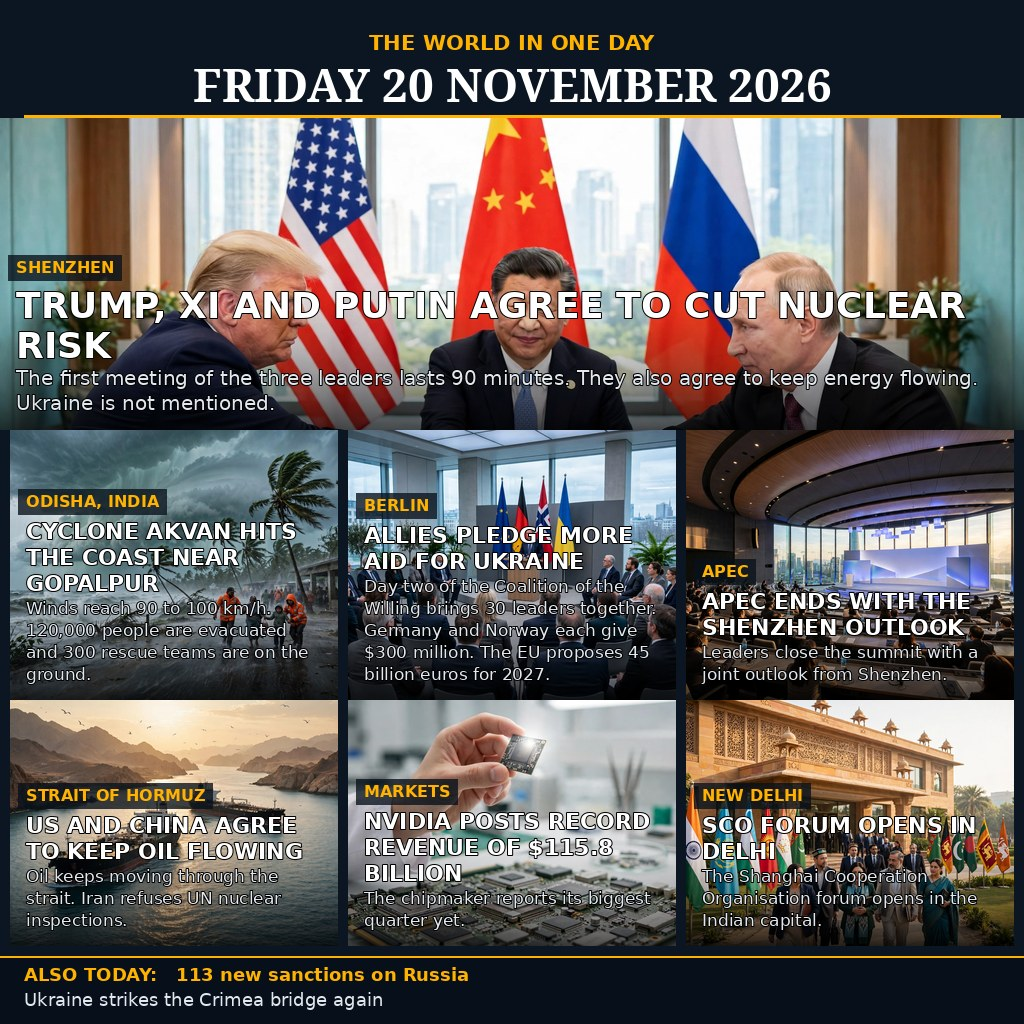
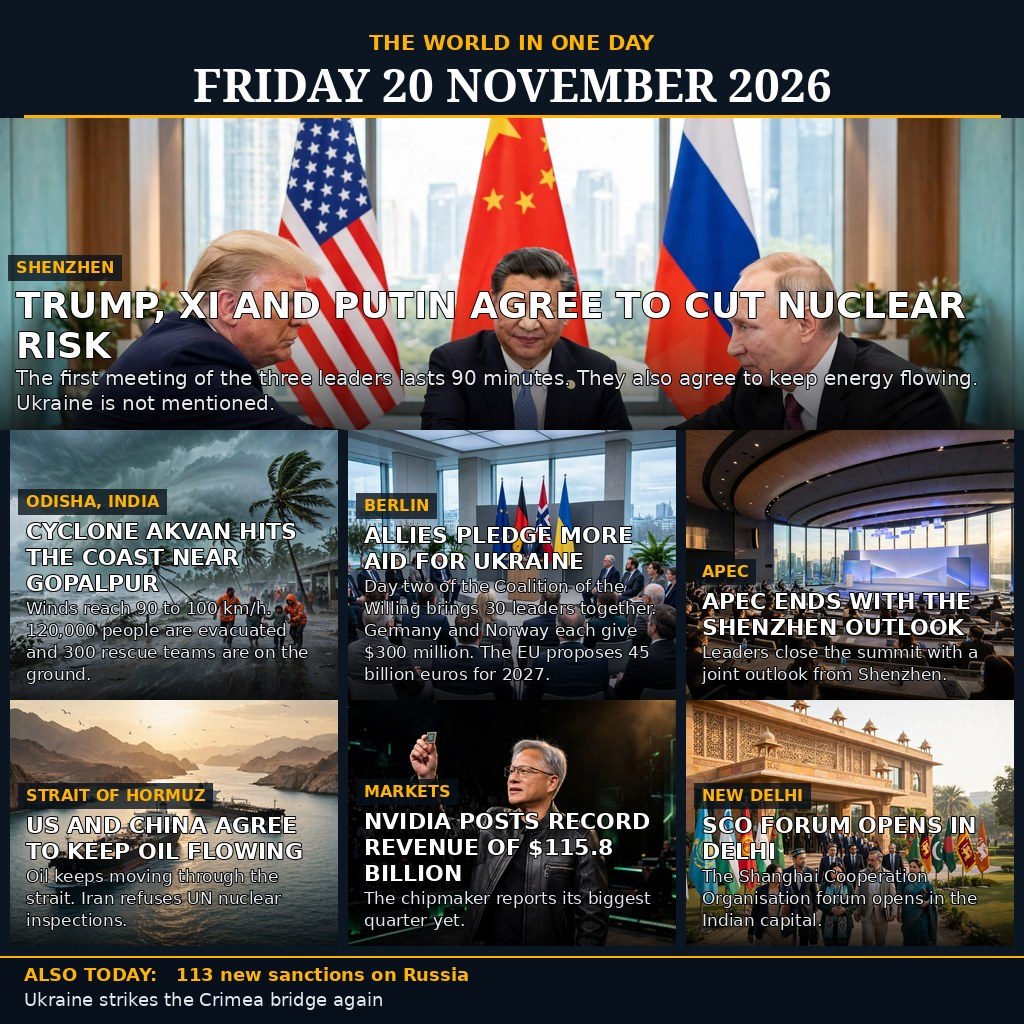
news-image-20261120: fix DELHI headline crop, Nvidia panel now Jensen Huang

Changed region(s): [[0.3125, 0.6562, 1.0, 0.9375]]

diff --git a/compose.py b/compose.py
@@ -16,8 +16,9 @@ All text is drawn with PIL (crisp vector type) over a moderate bottom
 scrim, so nothing is garbled the way AI-generated text would be. Each
 panel keeps its own natural colours and light: the hero is warm daylight,
 the cyclone is blue-grey with orange rescue jackets, Berlin is cool
-grey-blue, APEC is warm sunset, Hormuz is golden hour, Nvidia is a clean
-green and silver lab, Delhi is warm sandstone morning. No panel sits under
+grey-blue, APEC is warm sunset, Hormuz is golden hour, Nvidia is
+Jensen Huang on a dark keynote stage with green accents, Delhi is
+warm sandstone morning. No panel sits under
 a heavy dark wash. No randomness anywhere: same inputs give the same
 bytes every run.
 """
@@ -41,15 +42,17 @@ def font(path, size):
     return ImageFont.truetype(path, size)
 
 
-def cover_crop(im, tw, th, focus_y=0.5):
+def cover_crop(im, tw, th, focus_y=0.5, focus_x=0.5):
     """Resize + crop so the image exactly fills tw x th.
 
     focus_y (0..1) places the crop window vertically: 0.5 = centred.
+    focus_x (0..1) places it horizontally: 0.5 = centred, 1.0 = right.
     """
     sw, sh = im.size
     scale = max(tw / sw, th / sh)
     im = im.resize((round(sw * scale), round(sh * scale)), Image.LANCZOS)
-    x = (im.width - tw) // 2
+    slack_x = im.width - tw
+    x = round(slack_x * focus_x) if slack_x > 0 else 0
     slack = im.height - th
     y = round(slack * focus_y) if slack > 0 else 0
     return im.crop((x, y, x + tw, y + th))
@@ -87,11 +90,12 @@ def wrap(draw, text, fnt, max_w):
 
 
 def panel(base, img_path, box, tag, headline, sub, head_size=22,
-          sub_size=17, focus_y=0.5, max_head_lines=3, scrim_alpha=180):
+          sub_size=17, focus_y=0.5, focus_x=0.5, max_head_lines=3,
+          scrim_alpha=180):
     x0, y0, x1, y1 = box
     tw, th = x1 - x0, y1 - y0
     im = Image.open(img_path).convert("RGB")
-    base.paste(cover_crop(im, tw, th, focus_y), (x0, y0))
+    base.paste(cover_crop(im, tw, th, focus_y, focus_x), (x0, y0))
     scrim(base, (x0, y0 + th // 2, x1, y1), max_alpha=scrim_alpha)
     d = ImageDraw.Draw(base)
     pad = 16
@@ -186,7 +190,7 @@ def main():
           "Iran refuses UN nuclear inspections.",
           focus_y=0.45)
     panel(base,
-          f"{ASSETS}/media-generation-panel-nvidia-chips-0-1646f4af-b19d-4654-80f9-5e17ae02d835.webp",
+          f"{ASSETS}/media-generation-panel-nvidia-huang-a-0-34006fc0.webp",
           (gx + cw + gut, gy2, gx + 2 * cw + gut, gy2 + ch2),
           "MARKETS",
           "NVIDIA POSTS RECORD REVENUE OF $115.8 BILLION",
@@ -199,7 +203,11 @@ def main():
           "SCO FORUM OPENS IN DELHI",
           "The Shanghai Cooperation Organisation forum opens in the "
           "Indian capital.",
-          focus_y=0.45, scrim_alpha=215)
+          # focus_x=1.0 crops the Indian flag's chakra wheel (far left
+          # of the source) out of the frame: it used to sit behind the
+          # D of DELHI and read as "ODELHI". The right-hand flags and
+          # the delegation stay in frame.
+          focus_y=0.45, focus_x=1.0, scrim_alpha=215)
 
     # ---- ticker --------------------------------------------------------
     d.rectangle([(0, 956), (W, H)], fill=(7, 16, 26))
